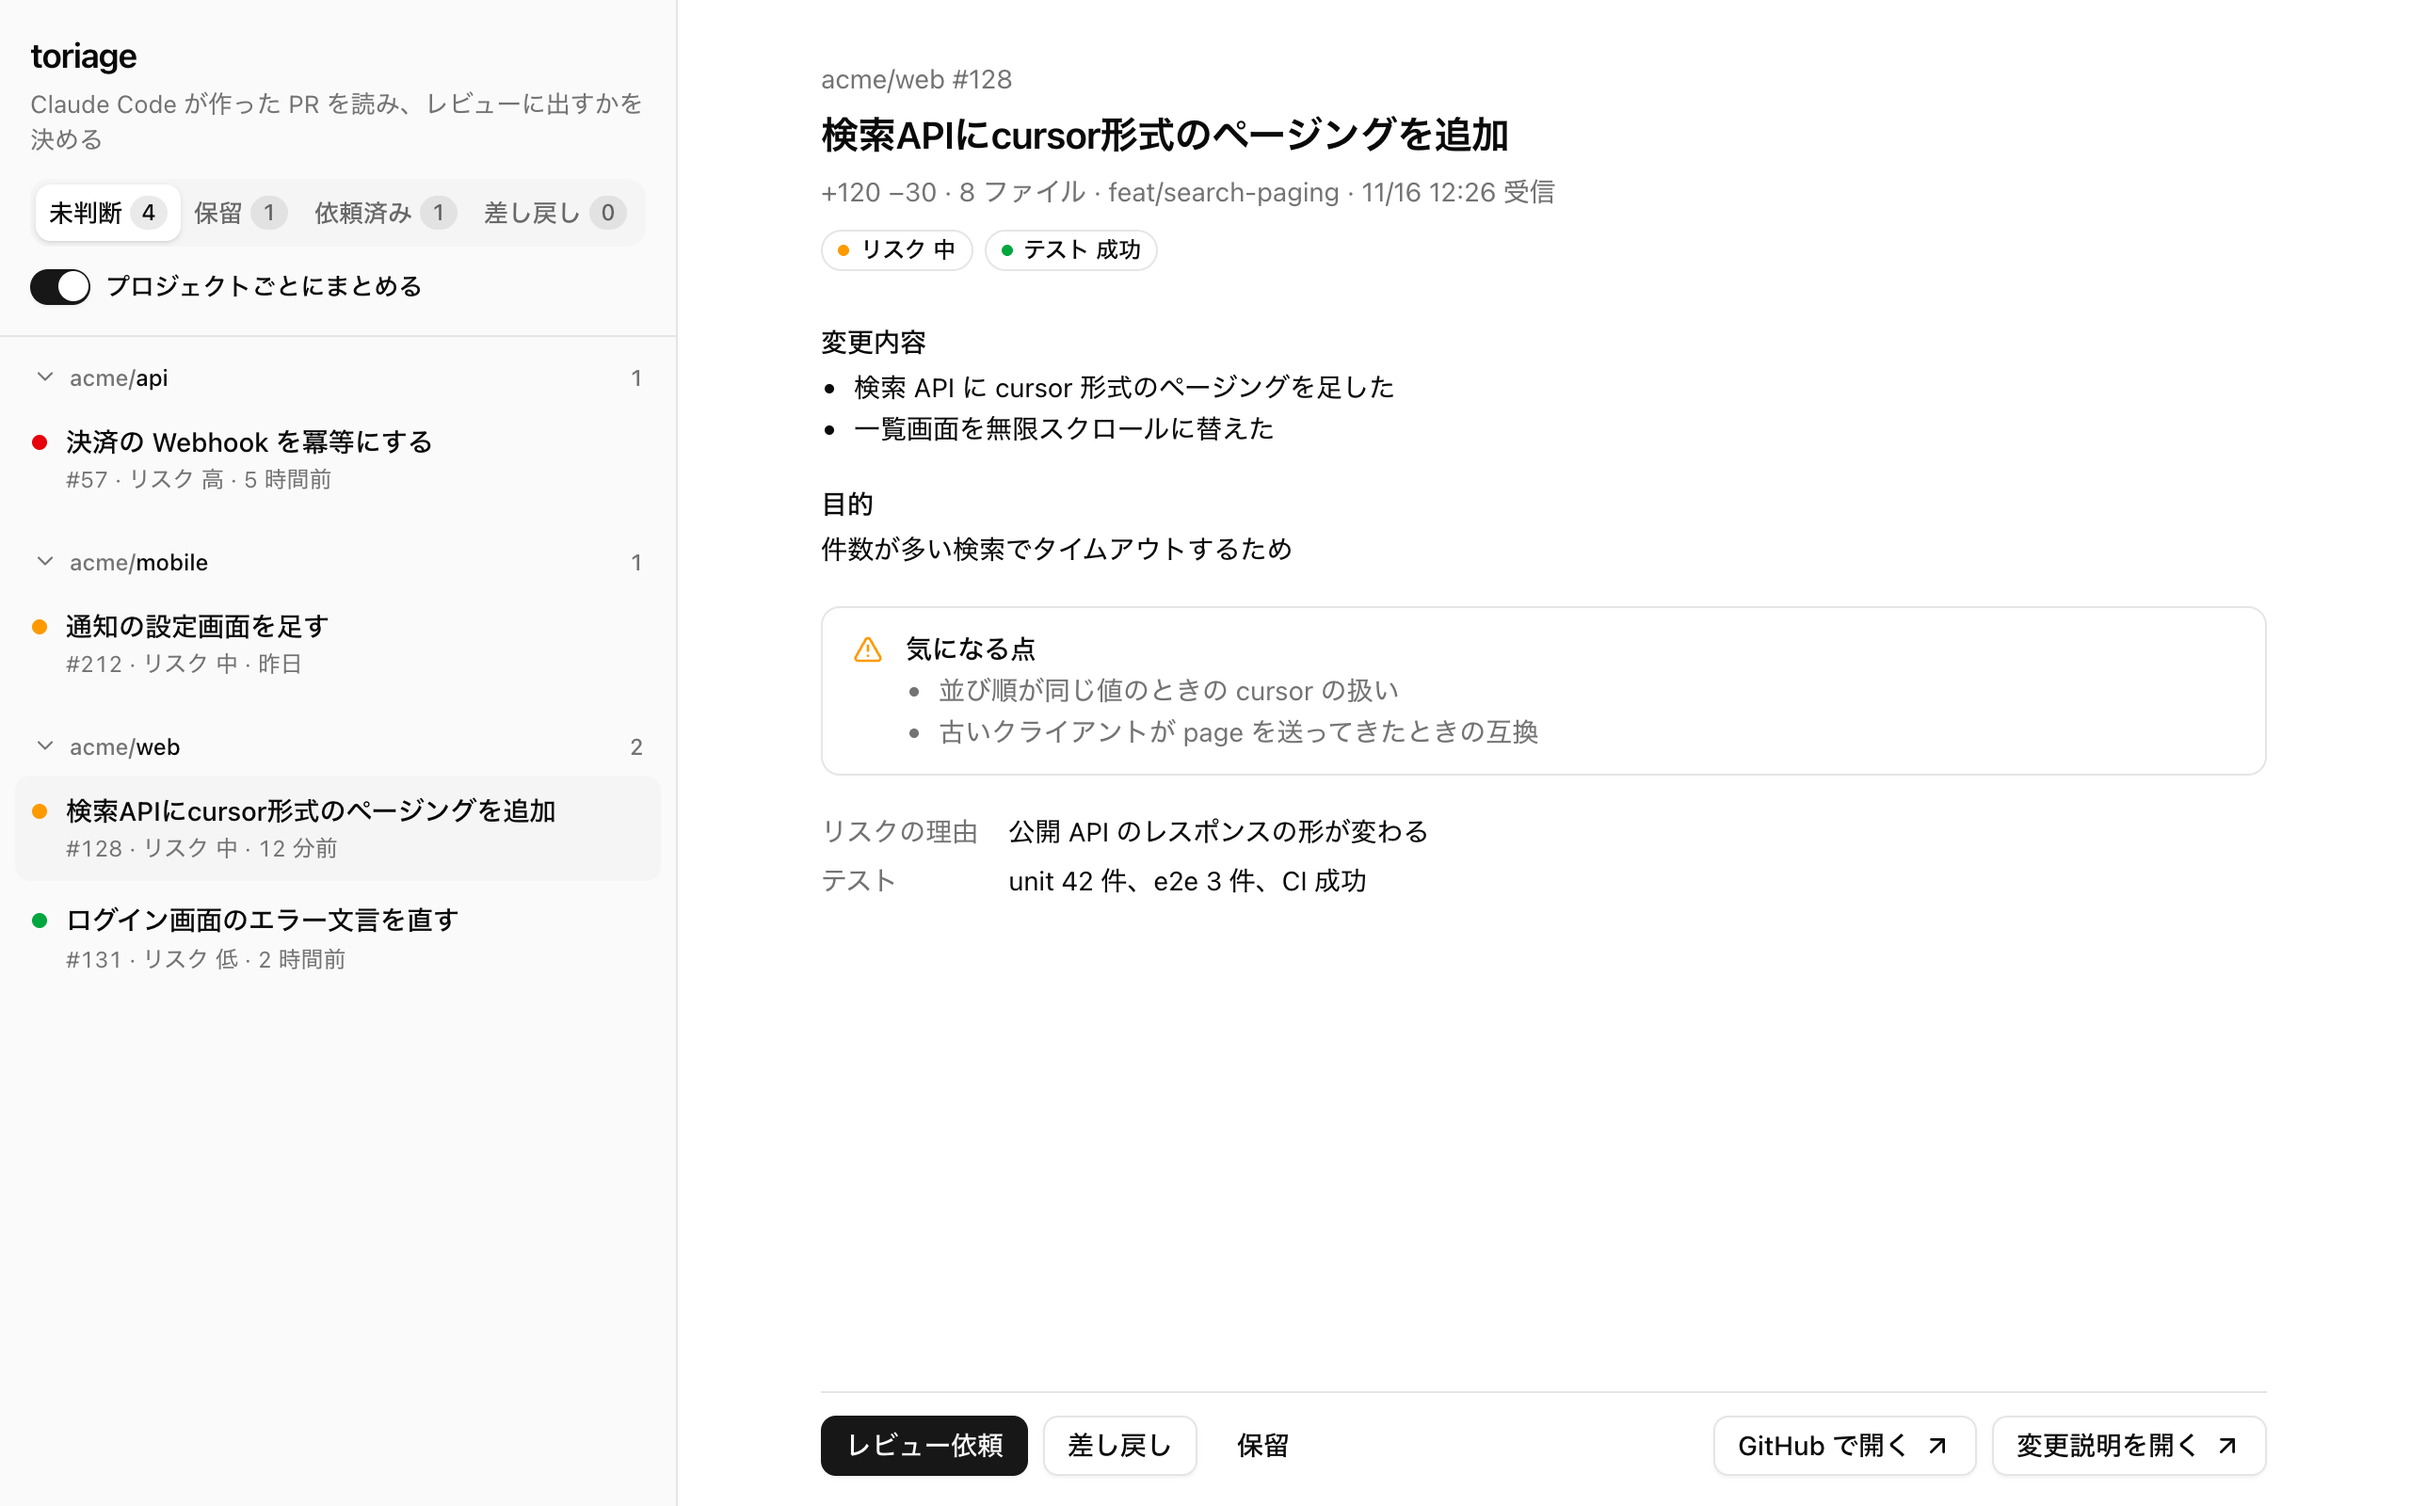
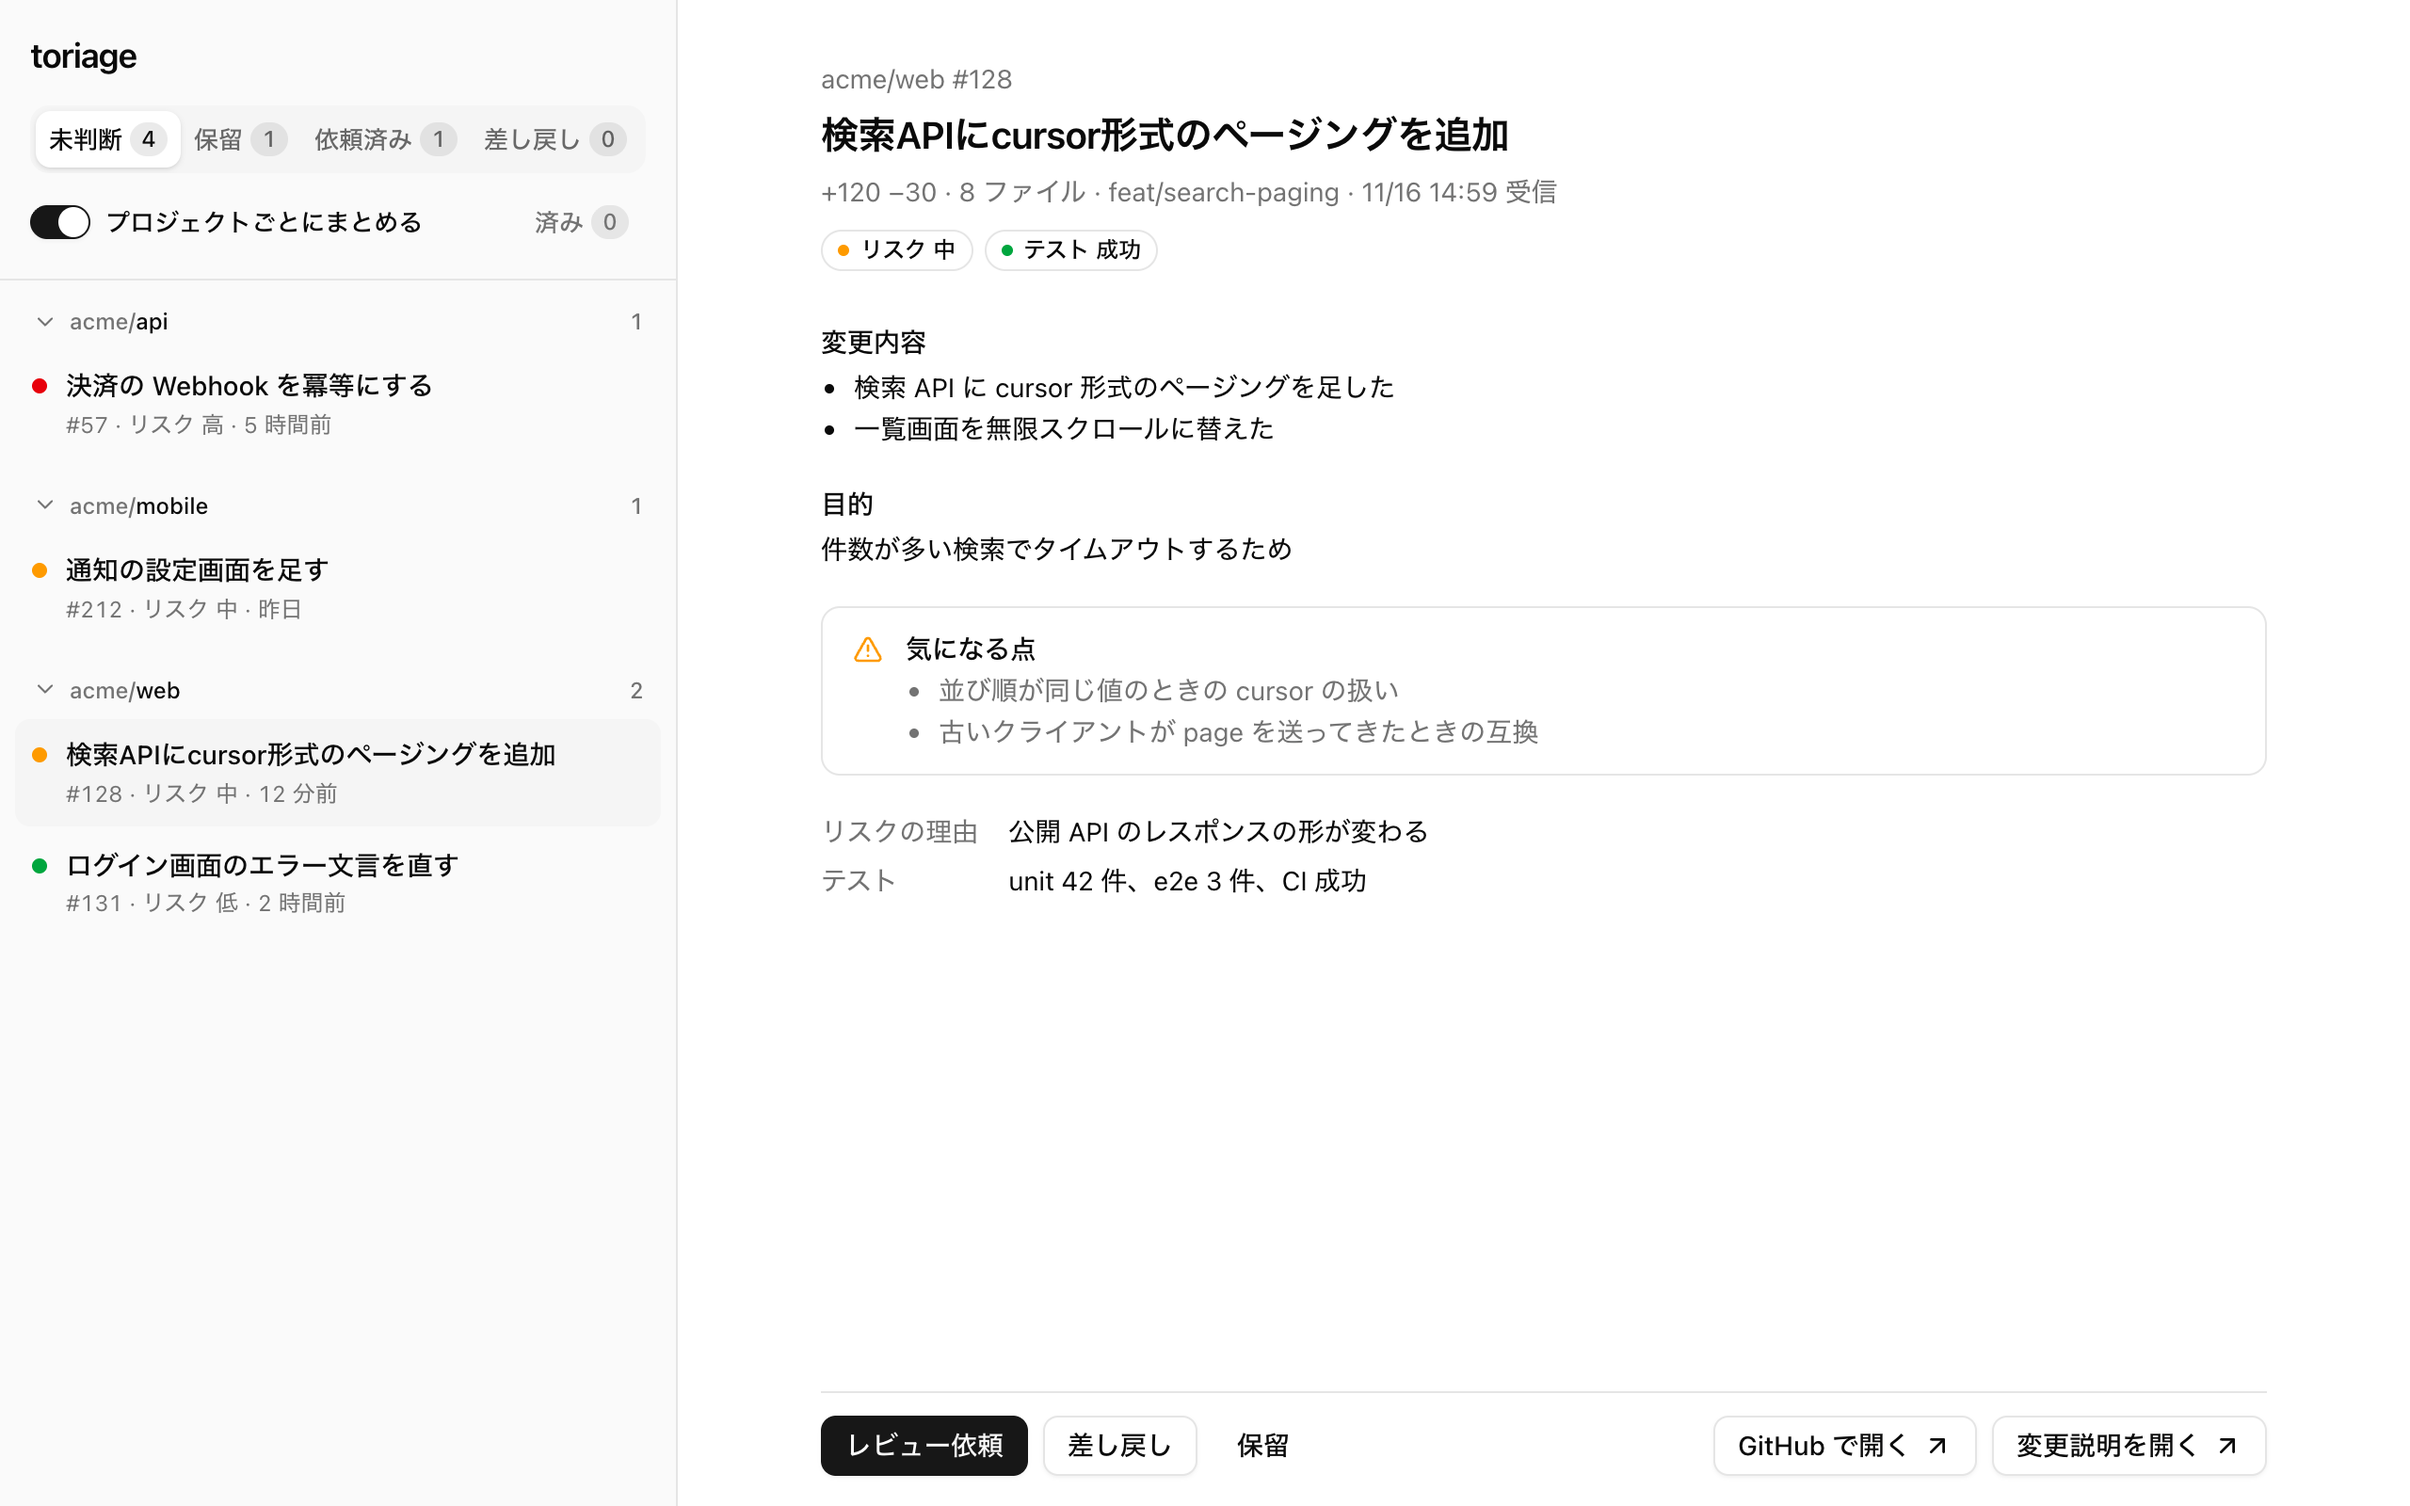
左のペインの副題をなくし、名前だけにする
高橋さんから、名前の下の「Claude Code や Codex が作った PR を読み、レビューに
出すかを決める」がダサいので変えてほしいと言われた。道具の画面では、何をする
ものかは使う人がもう知っているので、名前だけにして一覧に場所を回す。

- 左のペインの見出しを toriage の名前だけにした
- README のスクショ 3 枚を、架空の acme の報告で撮り直した
- 版を 0.6.1 にした

diff --git a/static/index.html b/static/index.html
@@ -85,9 +85,7 @@
     border-bottom: 1px solid var(--border);
     background: var(--sidebar);
   }
-  .brand { display: grid; gap: 2px; }
-  .brand h1 { font-size: 18px; line-height: 28px; font-weight: 600; letter-spacing: -0.025em; }
-  .brand p { color: var(--muted-foreground); font-size: 13px; }
+  .brand { font-size: 18px; line-height: 28px; font-weight: 600; letter-spacing: -0.025em; }
 
   .tabs-list {
     display: flex;
@@ -449,10 +447,7 @@
   <p id="load-error" class="load-error" role="alert" hidden></p>
   <aside class="sidebar">
     <div class="sidebar-header">
-      <div class="brand">
-        <h1>toriage</h1>
-        <p>Claude Code や Codex が作った PR を読み、レビューに出すかを決める</p>
-      </div>
+      <h1 class="brand">toriage</h1>
       <nav class="tabs-list" aria-label="判断の状態">
         <button type="button" class="tabs-trigger" data-status="pending" aria-pressed="true">未判断<span class="count"></span></button>
         <button type="button" class="tabs-trigger" data-status="on_hold" aria-pressed="false">保留<span class="count"></span></button>
